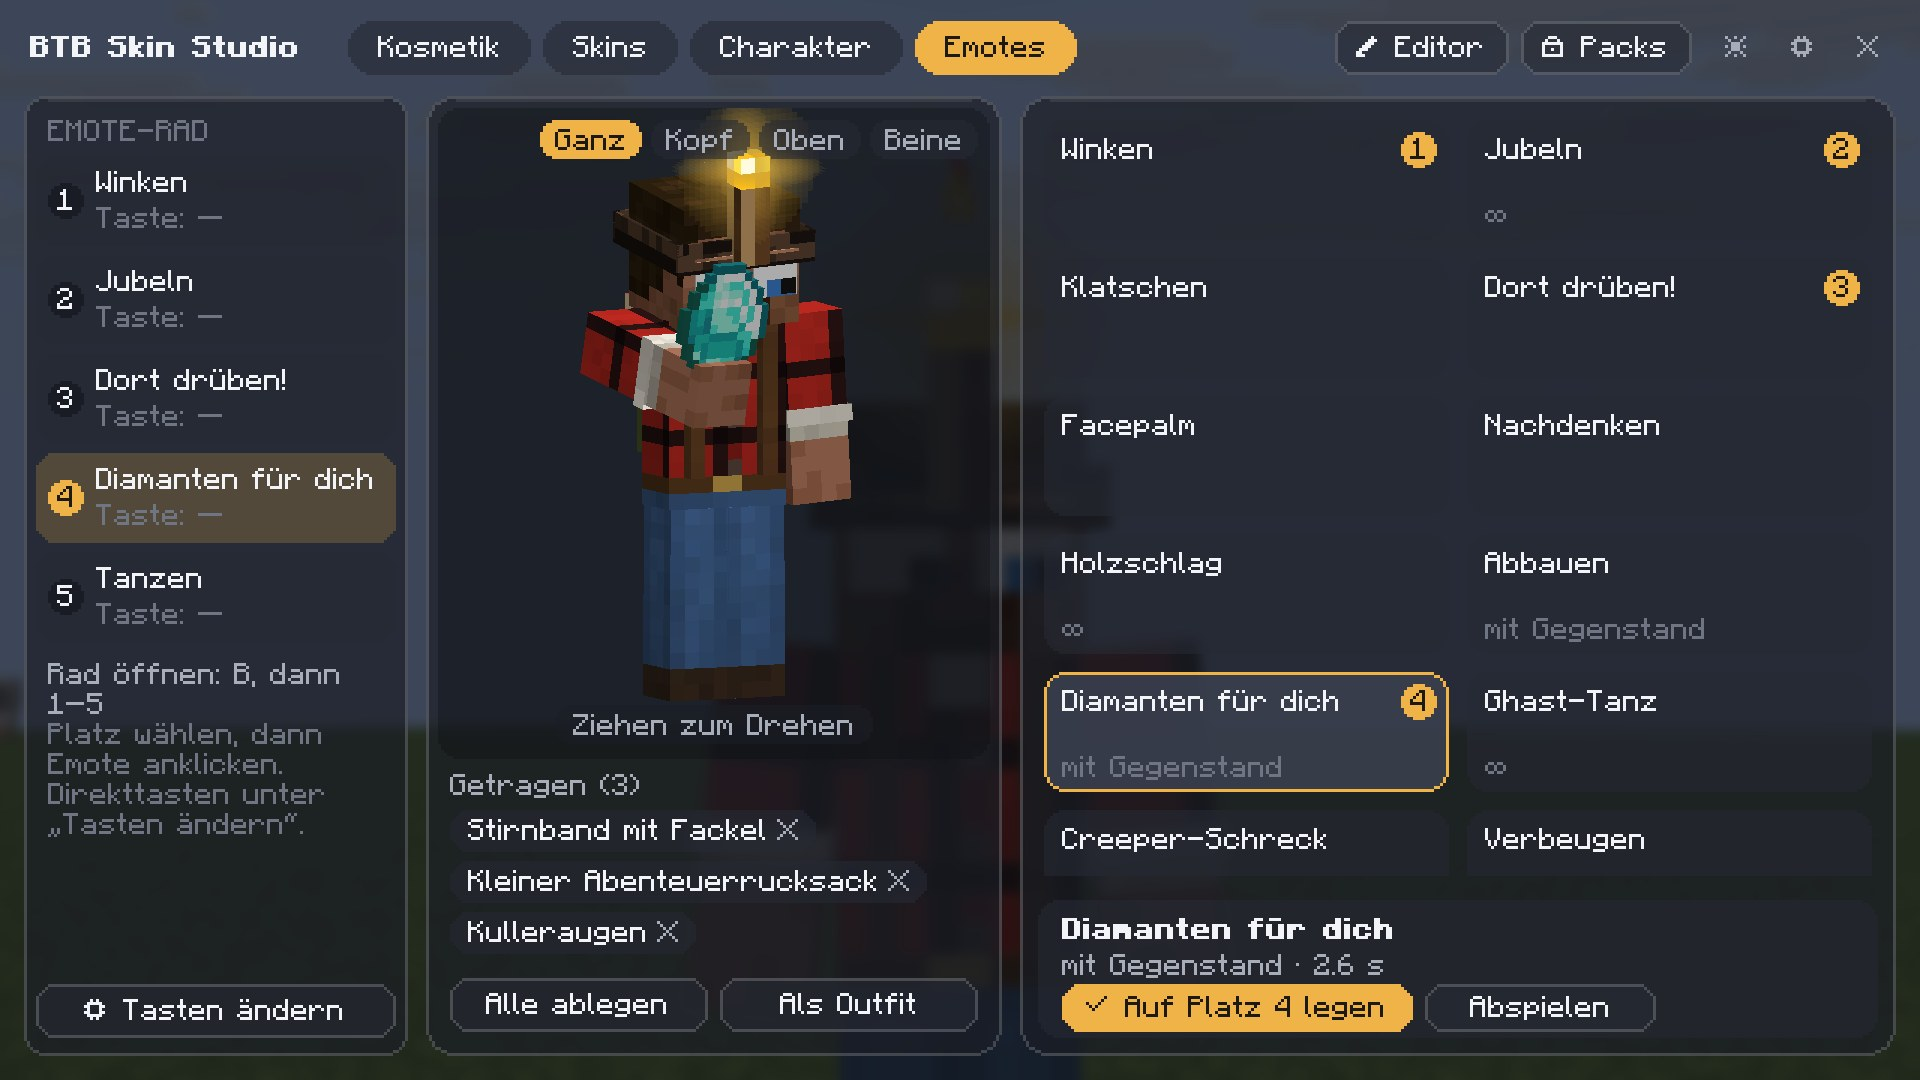
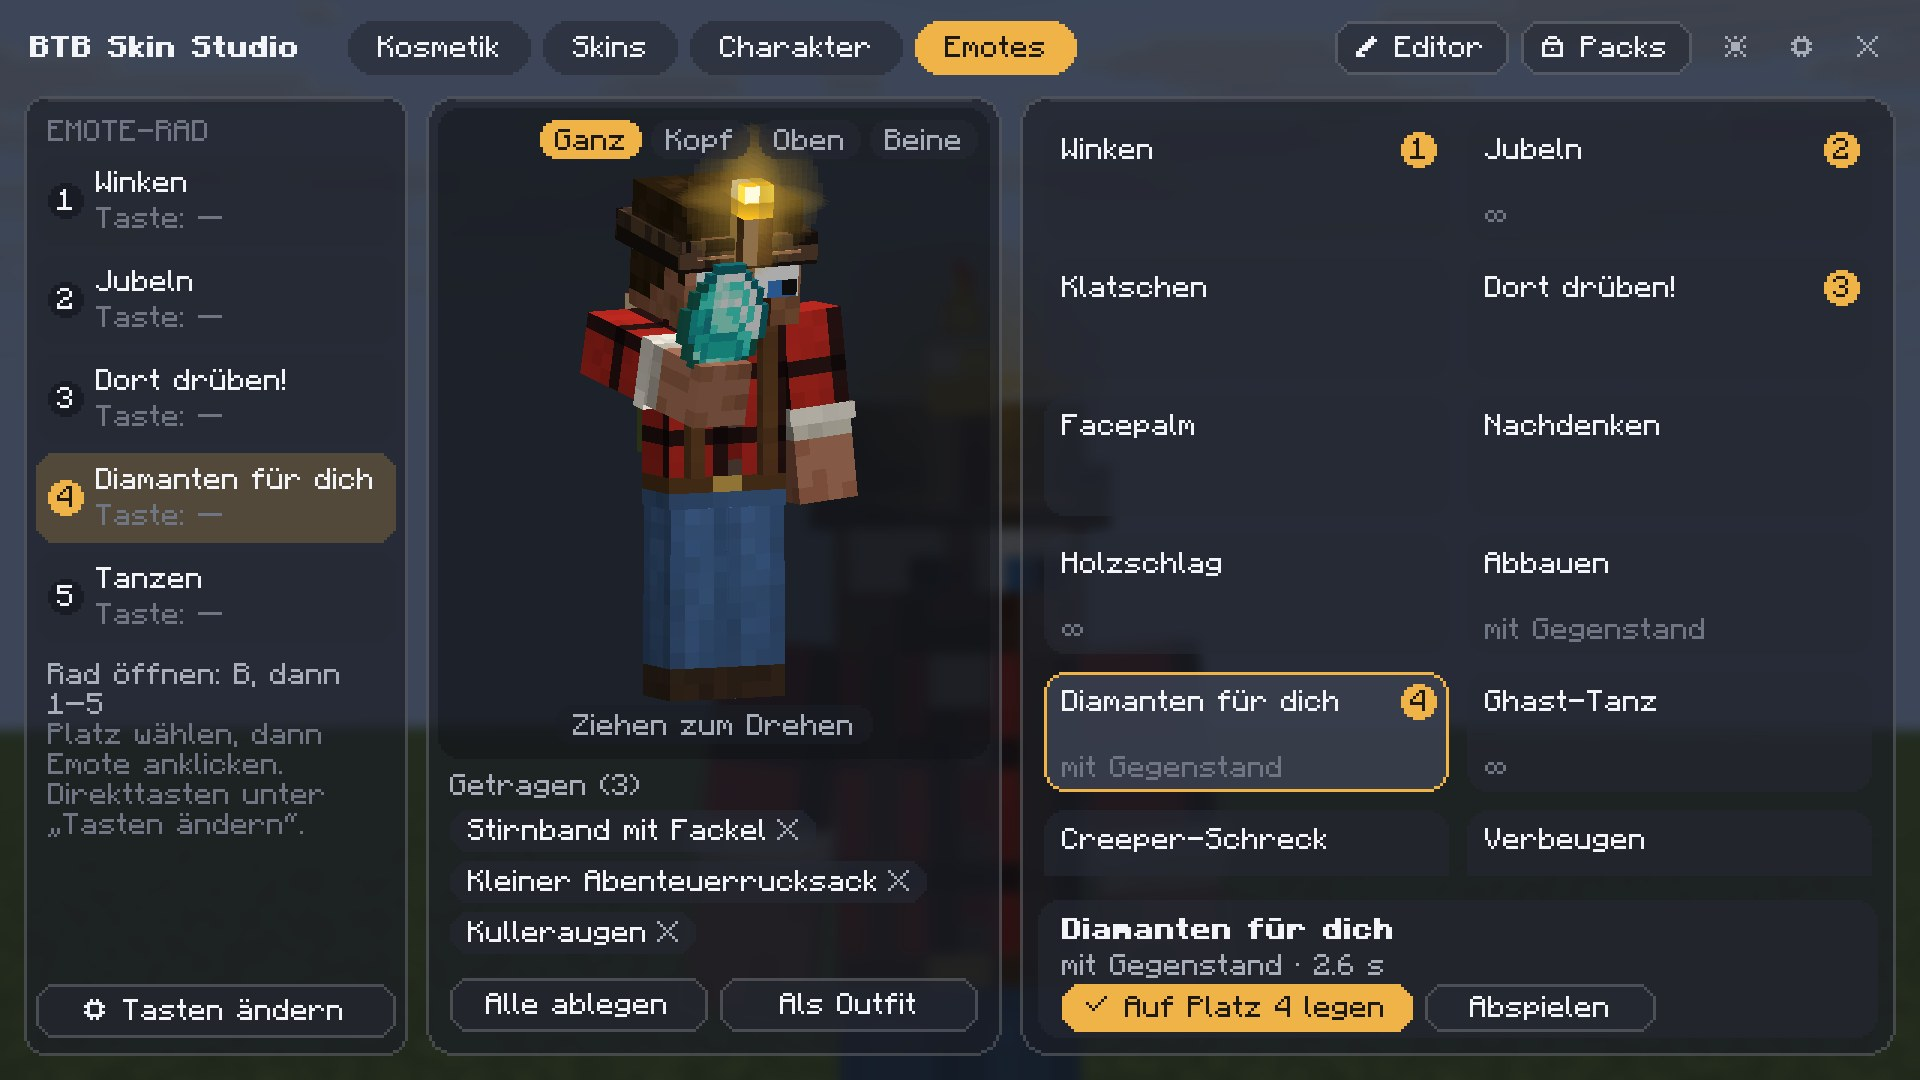
Headband torch sits lower; all gallery and menu images re-shot (now incl. editor tabs, Bedrock search, import, settings)
Claude-Session: https://claude.ai/code/session_01S4occ44uVa8LAyj1D5iJdo

Changed region(s): [[0.3125, 0.0917, 0.4375, 0.3056], [0.0, 0.6111, 0.0312, 0.6722], [0.4062, 0.3667, 0.4375, 0.3972]]

diff --git a/tools/generate_starter_pack.py b/tools/generate_starter_pack.py
@@ -100,15 +100,15 @@ def build():
     ring(m, b, 28, 2, band, r=4.75, thick=0.25)  # dünn und eng am Kopf (Hutebene endet bei 4.5)
     stick = lambda f_, x, y, w, h, r: ((rgb('#c9a06a') + (255,)) if (f_ in ('front', 'left', 'right', 'back') and x == 0) else
                                        shade(rgb('#6e4724'), 0.85 + r.random() * 0.25) + (255,))
-    m.box(b, (-1, 28.5, -6), (2, 5, 2), stick)
-    fb = m.bone('flame', [0, 33.5, -5], parent='band')
+    m.box(b, (-1, 28.5, -6), (2, 3, 2), stick)  # kurzer Stiel: Flamme knapp über dem Kopf
+    fb = m.bone('flame', [0, 31.5, -5], parent='band')
     fl = lambda f_, x, y, w, h, r: ((rgb('#fffbe0') + (255,)) if (y == 0 and x == 0) else (rgb('#ffe14a') + (255,)) if y == 0 else (rgb('#ffc21a') + (255,)))
-    m.box(fb, (-1, 33.5, -6), (2, 2, 2), fl, emissive=fl)
+    m.box(fb, (-1, 31.5, -6), (2, 2, 2), fl, emissive=fl)
     cos.append(('headband_torch', meta('headband_torch', 'Stirnband mit Fackel', 'Headband Torch', 'head_decoration',
                 desc_de='Breites Lederstirnband mit einer Fackel vorne in der Mitte – wie eine Stirnlampe.', desc_en='A wide leather headband with a torch at the front center – like a head lamp.',
                 animations=['animation.btb.headband_torch.flicker'],
-                glow={'color': '#FFC94A', 'size': 6, 'intensity': 0.5, 'offset': [0, 2.5, -5], 'flicker': True},
-                particles={'type': 'minecraft:small_flame', 'rate': 0.8, 'offset': [0, 4, -5], 'spread': 0.4},
+                glow={'color': '#FFC94A', 'size': 6, 'intensity': 0.5, 'offset': [0, 0.5, -5], 'flicker': True},
+                particles={'type': 'minecraft:small_flame', 'rate': 0.8, 'offset': [0, 2, -5], 'spread': 0.4},
                 tags=['fackel', 'höhle', 'licht', 'stirnlampe']),
                 m, {'animation.btb.headband_torch.flicker': anim(flame={'scale': [1, '1 + math.sin(q.anim_time * 900) * 0.06', 1]})}, HEAD))
 
